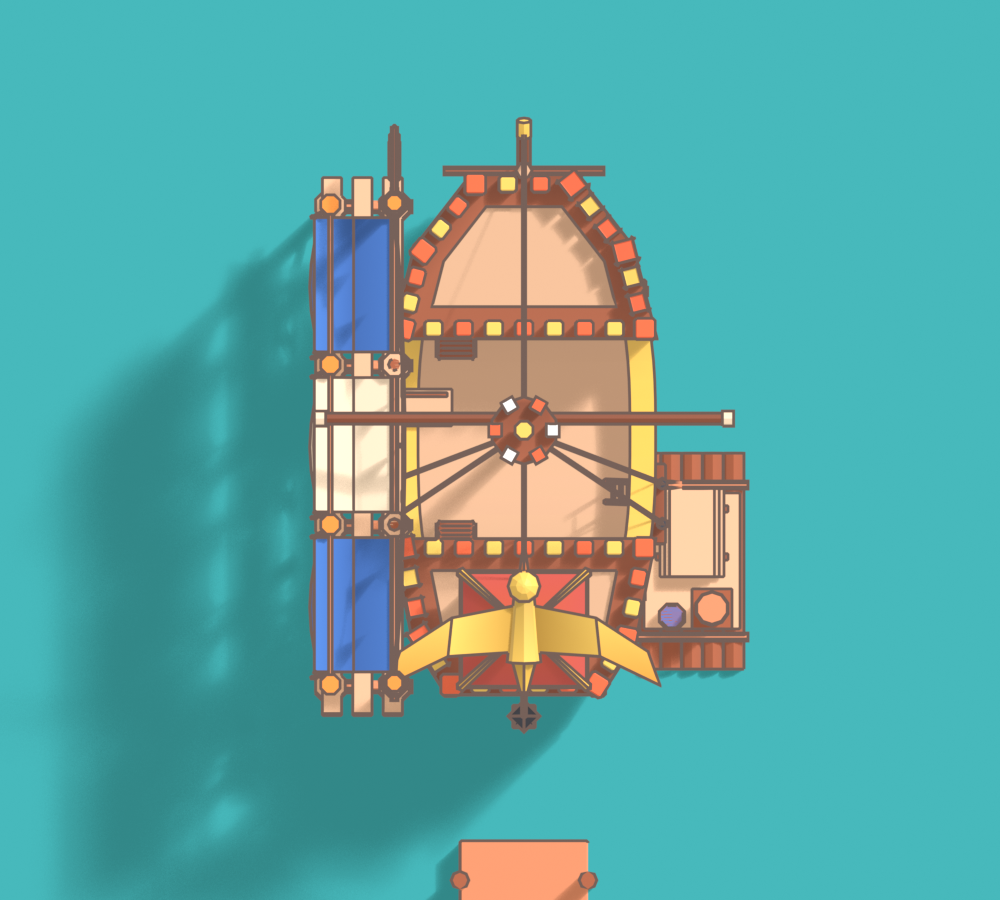
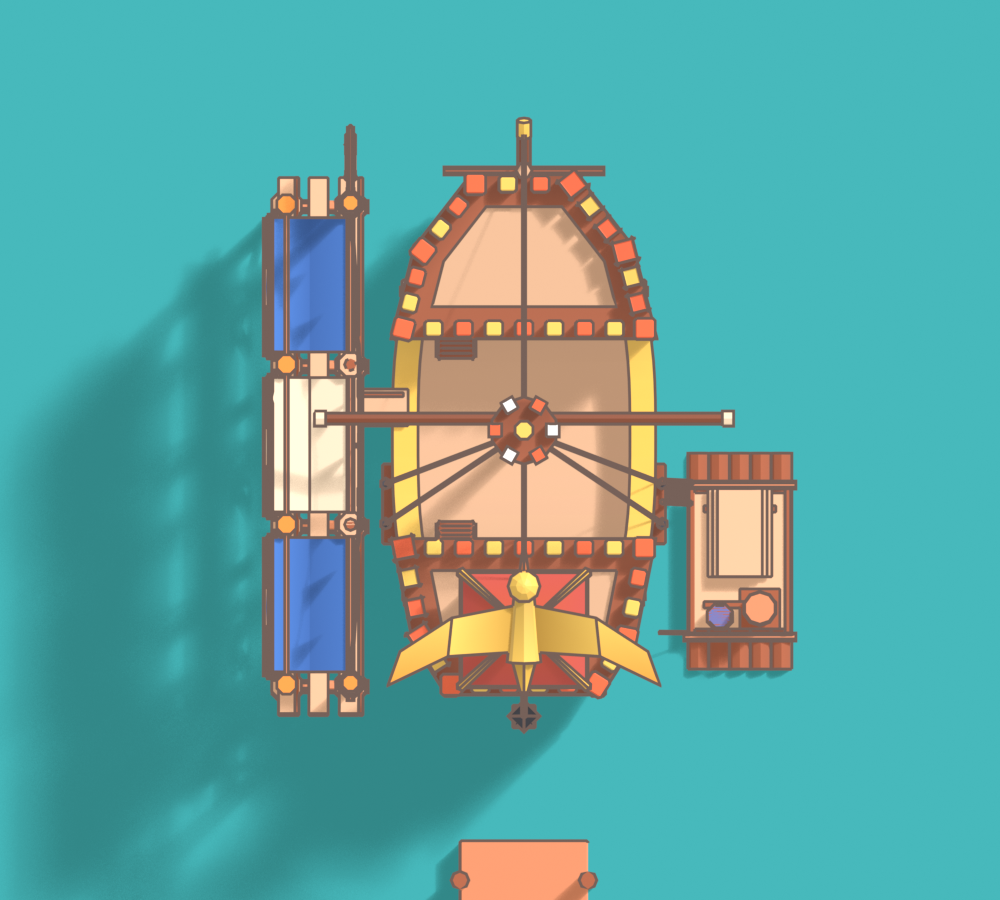
docs: refine the dock works blockout (fits all five ships, trims, canvas on spars)

diff --git a/scripts/blender/blockout-dockworks.py b/scripts/blender/blockout-dockworks.py
@@ -59,7 +59,29 @@ def context():
 
 # ---------------------------------------------------------------- the works
 
-STAGE_X = (1.62, 2.42)  # the staging's two rows of piles, starboard of the hull
+def half_width():
+    """The hull's half width at the rail amidships (the ships differ: the freighter is half again as wide as the gamble),
+    leaving out what sticks out further (oars, davits, yards)."""
+    xs = []
+    for ob in kit.SCENE.objects:
+        if not ob.get("model"):
+            continue
+        for v in ob.data.vertices:
+            w = ob.matrix_world @ v.co  # Blender space: x across, -y toward the bow, z up
+            if abs(w.y) < 2.2 and WATER + 0.2 < w.z < 1.9:
+                xs.append(abs(w.x))
+    xs.sort()
+    return xs[int(len(xs) * 0.97)] if xs else 1.2
+
+
+load_ship()
+HALF = half_width()
+print(f"HALF WIDTH {SHIP} {HALF:.2f}")
+# The staging's two rows of piles beside the hull, and the float's inner edge on the other side: both stand off the
+# hull by the same gap whatever the ship (the game places the two pieces by the ship type's half width).
+GAP = 0.42
+STAGE_X = (HALF + GAP, HALF + GAP + 0.8)
+FLOAT_X = -(HALF + 0.3)
 BAYS = (-3.0, -1.0, 1.0, 3.0)
 LOW, HIGH = 1.75, 3.15  # the two plank levels: at the rail, and at the castles' tops
 TOPS = {-3.0: 5.0, -1.0: 3.9, 1.0: 3.9, 3.0: 5.0}  # the end piles carry the bunting
@@ -108,9 +130,19 @@ def staging():
         beam(f"works-rung{i}", (p[0] - 0.14, p[1], p[2]), (p[0] + 0.14, p[1], p[2]), 0.045, "wood", sides=6)
     box("works-ladder-cleat", (foot[0], LOW + 0.045, foot[2] - 0.08), (0.42, 0.05, 0.08), "woodDark", bevel=0.01)
     # A gangplank from the lower level over to the ship's rail amidships, on a batten at each end.
-    box("works-gang", (inner - 0.36, LOW + 0.02, 0.5), (0.72, 0.05, 0.46), "deck", bevel=0.012, shade=0.9)
+    reach = GAP + 0.3
+    box("works-gang", (inner - reach / 2 + 0.06, LOW + 0.02, 0.5), (reach + 0.12, 0.05, 0.46), "deck", bevel=0.012, shade=0.9)
     for z in (0.34, 0.66):
-        box(f"works-gang-batten{z}", (inner - 0.36, LOW + 0.06, z), (0.6, 0.035, 0.05), "woodDark", bevel=0.008)
+        box(f"works-gang-batten{z}", (inner - reach / 2 + 0.06, LOW + 0.06, z), (reach, 0.035, 0.05), "woodDark", bevel=0.008)
+    # Toe boards along both levels, inside the outer piles (the canvas hangs outside them), and a kerb inboard: the
+    # walkways' dark edges against the pale planks.
+    for level in (LOW, HIGH):
+        box(f"works-toe-out{level}", (outer - 0.13, level + 0.05, 0), (0.05, 0.13, BAYS[-1] - BAYS[0] + 0.7), "woodDark", bevel=0.012)
+        box(f"works-toe-in{level}", (inner - 0.13, level + 0.02, 0), (0.05, 0.07, BAYS[-1] - BAYS[0] + 0.7), "woodDark", bevel=0.012)
+    # Every pile is tarred black from under the water to a hand above it.
+    for z in BAYS:
+        for x in (inner, outer):
+            prism(f"works-tar{x}{z}", (x, WATER - 0.04, z), 0.115, 0.34, "dark", sides=8)
 
 
 def canvas():
@@ -133,6 +165,13 @@ def canvas():
         verts += [(x - 0.03, y, z) for x, y, z in verts]
         faces += [[back + k for k in reversed(f)] for f in list(faces)]
         mesh_from(f"x-works-canvas{n}", verts, faces, "player" if n != 1 else "canvas")
+        # Each sheet is bent to a spar at its head and weighted by a batten at its foot (pale wood against the colour),
+        # with a hem of the other cloth down both sides.
+        beam(f"works-canvas-spar{n}", (outer + 0.02, HIGH + 0.27, a + 0.06), (outer + 0.02, HIGH + 0.27, b - 0.06), 0.07, "deck", sides=6)
+        beam(f"works-canvas-foot{n}", (outer + 0.13, LOW + 0.3, a + 0.14), (outer + 0.13, LOW + 0.3, b - 0.14), 0.06, "deck", sides=6)
+        for z in (a + 0.12, b - 0.12):
+            hem = [(outer + 0.012, HIGH + 0.25, z - 0.035), (outer + 0.012, HIGH + 0.25, z + 0.035), (outer + 0.012, LOW + 0.15, z + 0.035), (outer + 0.012, LOW + 0.15, z - 0.035)]
+            mesh_from(f"x-works-hem{n}{z}", hem + [(x - 0.05, y, zz) for x, y, zz in hem], [[0, 1, 2, 3], [7, 6, 5, 4]], "canvas" if n != 1 else "player")
         # Laced to the top ledger by rings, tied down at the corners.
         for z in (a + 0.12, b - 0.12):
             beam(f"works-tie{n}{z}", (outer, HIGH + 0.25, z), (outer - 0.1, HIGH + 0.55, z), 0.035, "rope", sides=5)
@@ -155,6 +194,7 @@ def awning():
         pts = top + low
         under = [(x, y - 0.03, z) for x, y, z in pts]
         mesh_from(f"x-works-awning{n}", pts + under, [[0, 1, 2, 3], [4, 5, 6, 7], [11, 10, 9, 8], [15, 14, 13, 12]], "canvas" if n == 1 else "player")
+        beam(f"works-awning-foot{n}", (outer + 0.2, lo, z0 - 0.04), (outer + 0.2, lo, z1 + 0.04), 0.06, "deck", sides=6)
         for z in (z0, z1):
             beam(f"works-awning-tie{n}{z}", (inner + 0.02, hi, z), (inner, hi + 0.08, z + (0.14 if z == z1 else -0.14)), 0.035, "rope", sides=5)
             beam(f"works-awning-tie-lo{n}{z}", (outer + 0.2, lo, z), (outer, lo - 0.08, z + (0.14 if z == z1 else -0.14)), 0.035, "rope", sides=5)
@@ -211,38 +251,42 @@ def sign():
 def work_float():
     """A work float on the port quarter: logs lashed under a plank deck, low enough for the ship-pick camera to look
     over it, with what the yard brought: a tar barrel, a stack of planks, a paint tub, a short ladder up the hull."""
-    x0, x1, z0, z1 = -2.75, -1.45, -2.6, -0.2
+    x1 = FLOAT_X
+    x0, z0, z1 = x1 - 1.3, -2.6, -0.2
     for i in range(5):
         x = x0 + 0.13 + i * (x1 - x0 - 0.26) / 4
         beam(f"works-log{i}", (x, WATER + 0.02, z0 - 0.15), (x, WATER + 0.02, z1 + 0.15), 0.26, "woodDark", sides=8)
     for z in (z0 + 0.25, z1 - 0.25):
         beam(f"works-float-tie{z}", (x0 - 0.05, WATER + 0.17, z), (x1 + 0.05, WATER + 0.17, z), 0.1, "wood", sides=6)
+    for x in (x0 + 0.05, x1 - 0.05):
+        box(f"works-float-rim{x}", (x, WATER + 0.25, (z0 + z1) / 2), (0.07, 0.09, z1 - z0 - 0.6), "woodDark", bevel=0.012)
     box("works-float-deck", ((x0 + x1) / 2, WATER + 0.21, (z0 + z1) / 2), (x1 - x0 - 0.1, 0.06, z1 - z0 - 0.7), "deck", bevel=0.015)
     # Moored to the hull by two lines on ring bolts.
     for z in (z0 + 0.3, z1 - 0.3):
-        beam(f"works-moor{z}", (x1, WATER + 0.26, z), (-1.0, 1.0, z), 0.035, "rope", sides=5)
+        beam(f"works-moor{z}", (x1, WATER + 0.26, z), (-HALF + 0.05, 1.0, z), 0.035, "rope", sides=5)
     # The tar barrel on a pad, hooped; the tub beside it; the plank stack on bearers.
-    box("works-barrel-pad", (-2.35, WATER + 0.26, -2.0), (0.5, 0.04, 0.5), "woodDark", bevel=0.01)
-    prism("works-barrel", (-2.35, WATER + 0.28, -2.0), 0.2, 0.46, "wood", sides=10)
+    box("works-barrel-pad", (x1 -0.90, WATER + 0.26, -2.0), (0.5, 0.04, 0.5), "woodDark", bevel=0.01)
+    prism("works-barrel", (x1 -0.90, WATER + 0.28, -2.0), 0.2, 0.46, "wood", sides=10)
     for y in (0.36, 0.64):
-        prism(f"works-hoop{y}", (-2.35, WATER + y, -2.0), 0.21, 0.04, "metal", sides=10)
-    prism("works-tub", (-1.85, WATER + 0.24, -2.1), 0.15, 0.18, "woodDark", sides=8, top=1.15)
-    prism("works-tub-paint", (-1.85, WATER + 0.4, -2.1), 0.15, 0.02, "player", sides=8)
-    for z in (-1.35, -0.75):
-        box(f"works-bearer{z}", (-2.1, WATER + 0.27, z), (0.9, 0.05, 0.08), "woodDark", bevel=0.01)
+        prism(f"works-hoop{y}", (x1 -0.90, WATER + y, -2.0), 0.21, 0.04, "metal", sides=10)
+    prism("works-tub", (x1 -0.40, WATER + 0.24, -2.1), 0.15, 0.18, "woodDark", sides=8, top=1.15)
+    prism("works-tub-paint", (x1 -0.40, WATER + 0.4, -2.1), 0.15, 0.02, "player", sides=8)
+    for z in (x1 +0.10, -0.75):
+        box(f"works-bearer{z}", (x1 -0.65, WATER + 0.27, z), (0.9, 0.05, 0.08), "woodDark", bevel=0.01)
     for i in range(3):
-        box(f"works-stack{i}", (-2.1, WATER + 0.325 + i * 0.06, -1.05), (0.8 - i * 0.12, 0.05, 1.1), "deck", bevel=0.012, shade=0.9 + i * 0.05)
+        box(f"works-stack{i}", (x1 -0.65, WATER + 0.325 + i * 0.06, -1.05), (0.8 - i * 0.12, 0.05, 1.1), "deck", bevel=0.012, shade=0.9 + i * 0.05)
     # The ladder up the ship's side, hooked over the rail.
     for dz in (-0.13, 0.13):
-        beam(f"works-side-ladder{dz}", (-1.5, WATER + 0.26, -0.55 + dz), (-1.02, 1.8, -0.55 + dz), 0.055, "woodDark", sides=6)
+        beam(f"works-side-ladder{dz}", (x1 -0.05, WATER + 0.26, -0.55 + dz), (-HALF + 0.02, 1.8, -0.55 + dz), 0.055, "woodDark", sides=6)
+    lean = (-HALF + 0.02) - (x1 - 0.05)
     for i in range(1, 5):
         t = i / 5
-        beam(f"works-side-rung{i}", (-1.5 + 0.48 * t, WATER + 0.26 + 1.54 * t - 0.26 * t + 0.0, -0.68), (-1.5 + 0.48 * t, WATER + 0.26 + 1.28 * t, -0.42), 0.04, "wood", sides=6)
+        px, py = x1 - 0.05 + lean * t, WATER + 0.26 + (1.8 - WATER - 0.26) * t
+        beam(f"works-side-rung{i}", (px, py, -0.68), (px, py, -0.42), 0.04, "wood", sides=6)
 
 
 # ---------------------------------------------------------------- render
 
-load_ship()
 context()
 first = len(PARTS)
 staging()

diff --git a/docs/proposals/2026-11-v08-presentation-plan.md b/docs/proposals/2026-11-v08-presentation-plan.md
@@ -37,7 +37,7 @@
 | --- | --- | --- |
 | 0. 畫面說真話 | 船卡改成掉箱表；回合數不再寫「／6」；選島卡的自由港、燈塔島文字；開局亮出兩個候選暗潮並常駐 | 不用 |
 | 1. 出航結算（件數制） | 船上看得到幾箱貨；結果出來後箱子從最貴的開始一箱一箱掉進海裡（水花、音效位置先留）；剩下的箱數賣錢；孤注號與海嘯號的倍率 | 不用（用現有貨箱模型） |
-| 2. 材料動作與建築 | 進行中（2026-11-17）：舊的四棟程式碼建築不沿用（使用者：不夠精緻，都是多邊體堆砌而成），三棟都在 Blender 重做：設計稿 [`../art/facilities-concept.png`](../art/facilities-concept.png)，使用者已確認方向、封邊與接合處；模型 `public/models/facilities/*.glb`（`scripts/blender/build-facilities.py`）。已放上島：位置在島後方兩塊舊空地之間（`scene/facilityLot.ts`），大小 1.2 倍，是八座島都不壓到造景的最大值（有測試）；桌面狀態從公開事件記錄誰蓋了哪棟、開了哪些技能，倉庫也扣掉材料與暗潮損失，與引擎一致（有測試）。預覽：`/v07.html?dev=facilities`。修船廠改成冷色滑道、深色船身、翠綠屋頂（原本在香料群島的紅土上撞色）。投資的裝貨步驟左側有「材料動作」面板（`table3d/MaterialPanel.tsx`、`table/investChoice.ts` 的 `materialCards`、`withMaterial`、`protectChoices`）：三棟建築與五個船技能各一張卡（圖、效果、要幾箱材料、不能選的原因），商行的主人在這裡指定保護的貨；選了會從可裝的貨扣掉材料。登場與反應（`table3d/facilityShow.ts`、`scene/Facility.tsx`）：蓋好的那回合，出航時島上跳出「修船廠 落成」（開技能是「好兆頭 開啟」），建築從上方落下、壓扁回彈、揚塵；結算時建築發揮作用（少掉箱、海盜少拿、擋下暗潮等，引擎的 `v08-effect` 事件）會在島上跳出一行說明並彈跳一下，跟船有關的在那艘船的結果出來時、跟市場有關的在市場結算完時。預覽：`/v07.html?dev=facilities&raise` 的「落成」「反應」按鈕。鏡頭（2026-11-18，使用者決定）：蓋建築的決定留在港口的材料動作面板（材料和貨是同一堆，要在同一個畫面比較），按下建築卡時鏡頭自己滑到島後方看建築落下、約 2 秒後自己回到船（`ShipSideCamera` 的 `lot`、`lotShot`），取消時不動；出航時有人蓋建築，鏡頭收到有訊息的那幾座島並多停 1.2 秒（`useIslandMoments` 的 `camera`）。造船廠不做成第四棟建築（人人都有、形狀會撞修船廠），改做碼頭邊的工事（使用者 2026-11-18 決定）：開技能那回合船邊搭起施工架，出航時拆掉。粗模設計稿 [`../art/dockworks-concept.png`](../art/dockworks-concept.png)（`scripts/blender/blockout-dockworks.py`）**待使用者確認**，確認後才建模與做進遊戲。**還沒做：** 落成與反應沒有音效；出航時只有一座島有訊息的單島特寫沒看過（試玩那局四座島都有訊息，等於整桌）；手機上鏡頭帶去島上時面板會不會擋住建築沒看過；手機版面沒測；整桌視角下自己的名牌可能蓋到島後方的建築；落成訊息與結算時的說明只在預覽頁看過動畫，沒在完整對局裡看過。 |
+| 2. 材料動作與建築 | 進行中（2026-11-17）：舊的四棟程式碼建築不沿用（使用者：不夠精緻，都是多邊體堆砌而成），三棟都在 Blender 重做：設計稿 [`../art/facilities-concept.png`](../art/facilities-concept.png)，使用者已確認方向、封邊與接合處；模型 `public/models/facilities/*.glb`（`scripts/blender/build-facilities.py`）。已放上島：位置在島後方兩塊舊空地之間（`scene/facilityLot.ts`），大小 1.2 倍，是八座島都不壓到造景的最大值（有測試）；桌面狀態從公開事件記錄誰蓋了哪棟、開了哪些技能，倉庫也扣掉材料與暗潮損失，與引擎一致（有測試）。預覽：`/v07.html?dev=facilities`。修船廠改成冷色滑道、深色船身、翠綠屋頂（原本在香料群島的紅土上撞色）。投資的裝貨步驟左側有「材料動作」面板（`table3d/MaterialPanel.tsx`、`table/investChoice.ts` 的 `materialCards`、`withMaterial`、`protectChoices`）：三棟建築與五個船技能各一張卡（圖、效果、要幾箱材料、不能選的原因），商行的主人在這裡指定保護的貨；選了會從可裝的貨扣掉材料。登場與反應（`table3d/facilityShow.ts`、`scene/Facility.tsx`）：蓋好的那回合，出航時島上跳出「修船廠 落成」（開技能是「好兆頭 開啟」），建築從上方落下、壓扁回彈、揚塵；結算時建築發揮作用（少掉箱、海盜少拿、擋下暗潮等，引擎的 `v08-effect` 事件）會在島上跳出一行說明並彈跳一下，跟船有關的在那艘船的結果出來時、跟市場有關的在市場結算完時。預覽：`/v07.html?dev=facilities&raise` 的「落成」「反應」按鈕。鏡頭（2026-11-18，使用者決定）：蓋建築的決定留在港口的材料動作面板（材料和貨是同一堆，要在同一個畫面比較），按下建築卡時鏡頭自己滑到島後方看建築落下、約 2 秒後自己回到船（`ShipSideCamera` 的 `lot`、`lotShot`），取消時不動；出航時有人蓋建築，鏡頭收到有訊息的那幾座島並多停 1.2 秒（`useIslandMoments` 的 `camera`）。造船廠不做成第四棟建築（人人都有、形狀會撞修船廠），改做碼頭邊的工事（使用者 2026-11-18 決定）：開技能那回合船邊搭起施工架，出航時拆掉。粗模設計稿 [`../art/dockworks-concept.png`](../art/dockworks-concept.png)（`scripts/blender/blockout-dockworks.py`）使用者 2026-11-18 確認方向，細修中：五艘船各套過一次（施工架與工作筏依船寬往外擺，離船身的距離相同）；封邊（踏板的深色擋邊、樁腳的柏油、帆布的橫杆與邊條、木筏的邊框）與接合（橫木綁紮、樁頂銅帽、梯腳擋木）；改前改後對照 [`../art/blockouts/dockworks/refine-before-after.jpg`](../art/blockouts/dockworks/refine-before-after.jpg)。**還沒做：** 建模匯出與做進遊戲、出現與拆掉的動畫、施工中帆要不要收起來（待使用者決定）；海嘯號船尾的槳離施工架最後一根樁很近，沒有近看確認。**還沒做：** 落成與反應沒有音效；出航時只有一座島有訊息的單島特寫沒看過（試玩那局四座島都有訊息，等於整桌）；手機上鏡頭帶去島上時面板會不會擋住建築沒看過；手機版面沒測；整桌視角下自己的名牌可能蓋到島後方的建築；落成訊息與結算時的說明只在預覽頁看過動畫，沒在完整對局裡看過。 |
 | 3. 船技能 | 五艘船各一個零件（開了技能才出現）＋觸發演出：好兆頭重擲、加注 ×4、拾荒、自帶掩護、巨浪加骰 | **要**：五個零件，先出設計稿 |
 | 4. 暗潮 | 暗潮將至（海變色）、揭曉是哪一種、倉庫減半、建築擋下的那一下、事件卡翻成 Boss 面、最後的大市集 | 可能要（四種暗潮的海面效果多半是程式特效；若要實體道具再出設計稿） |
 
